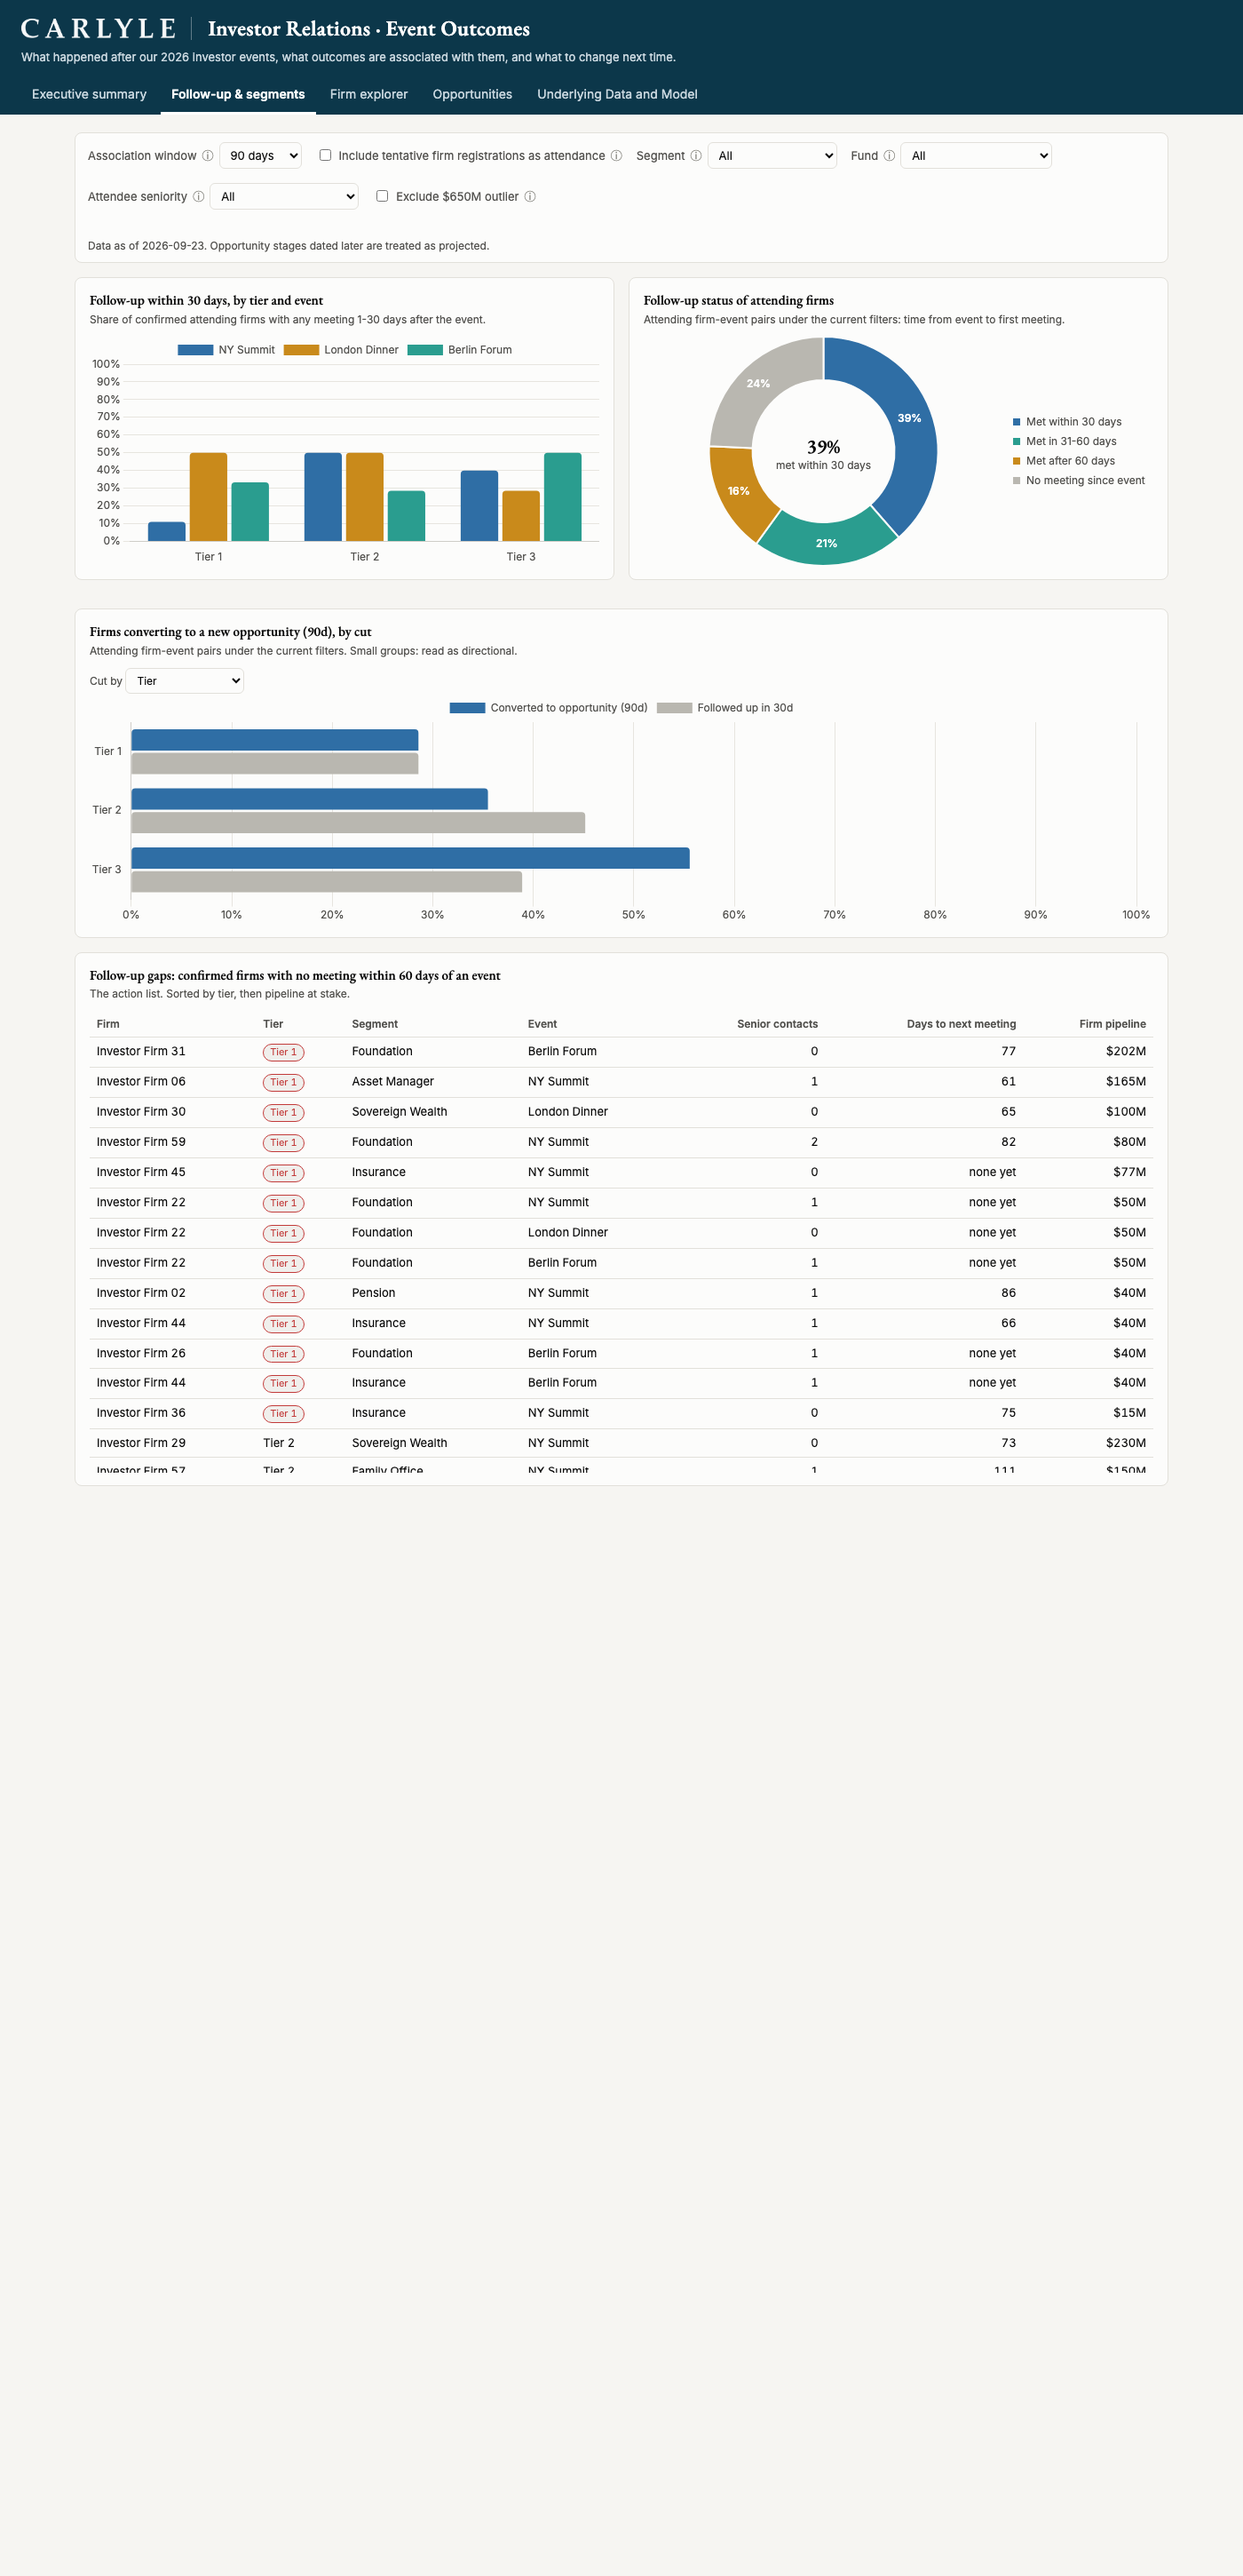
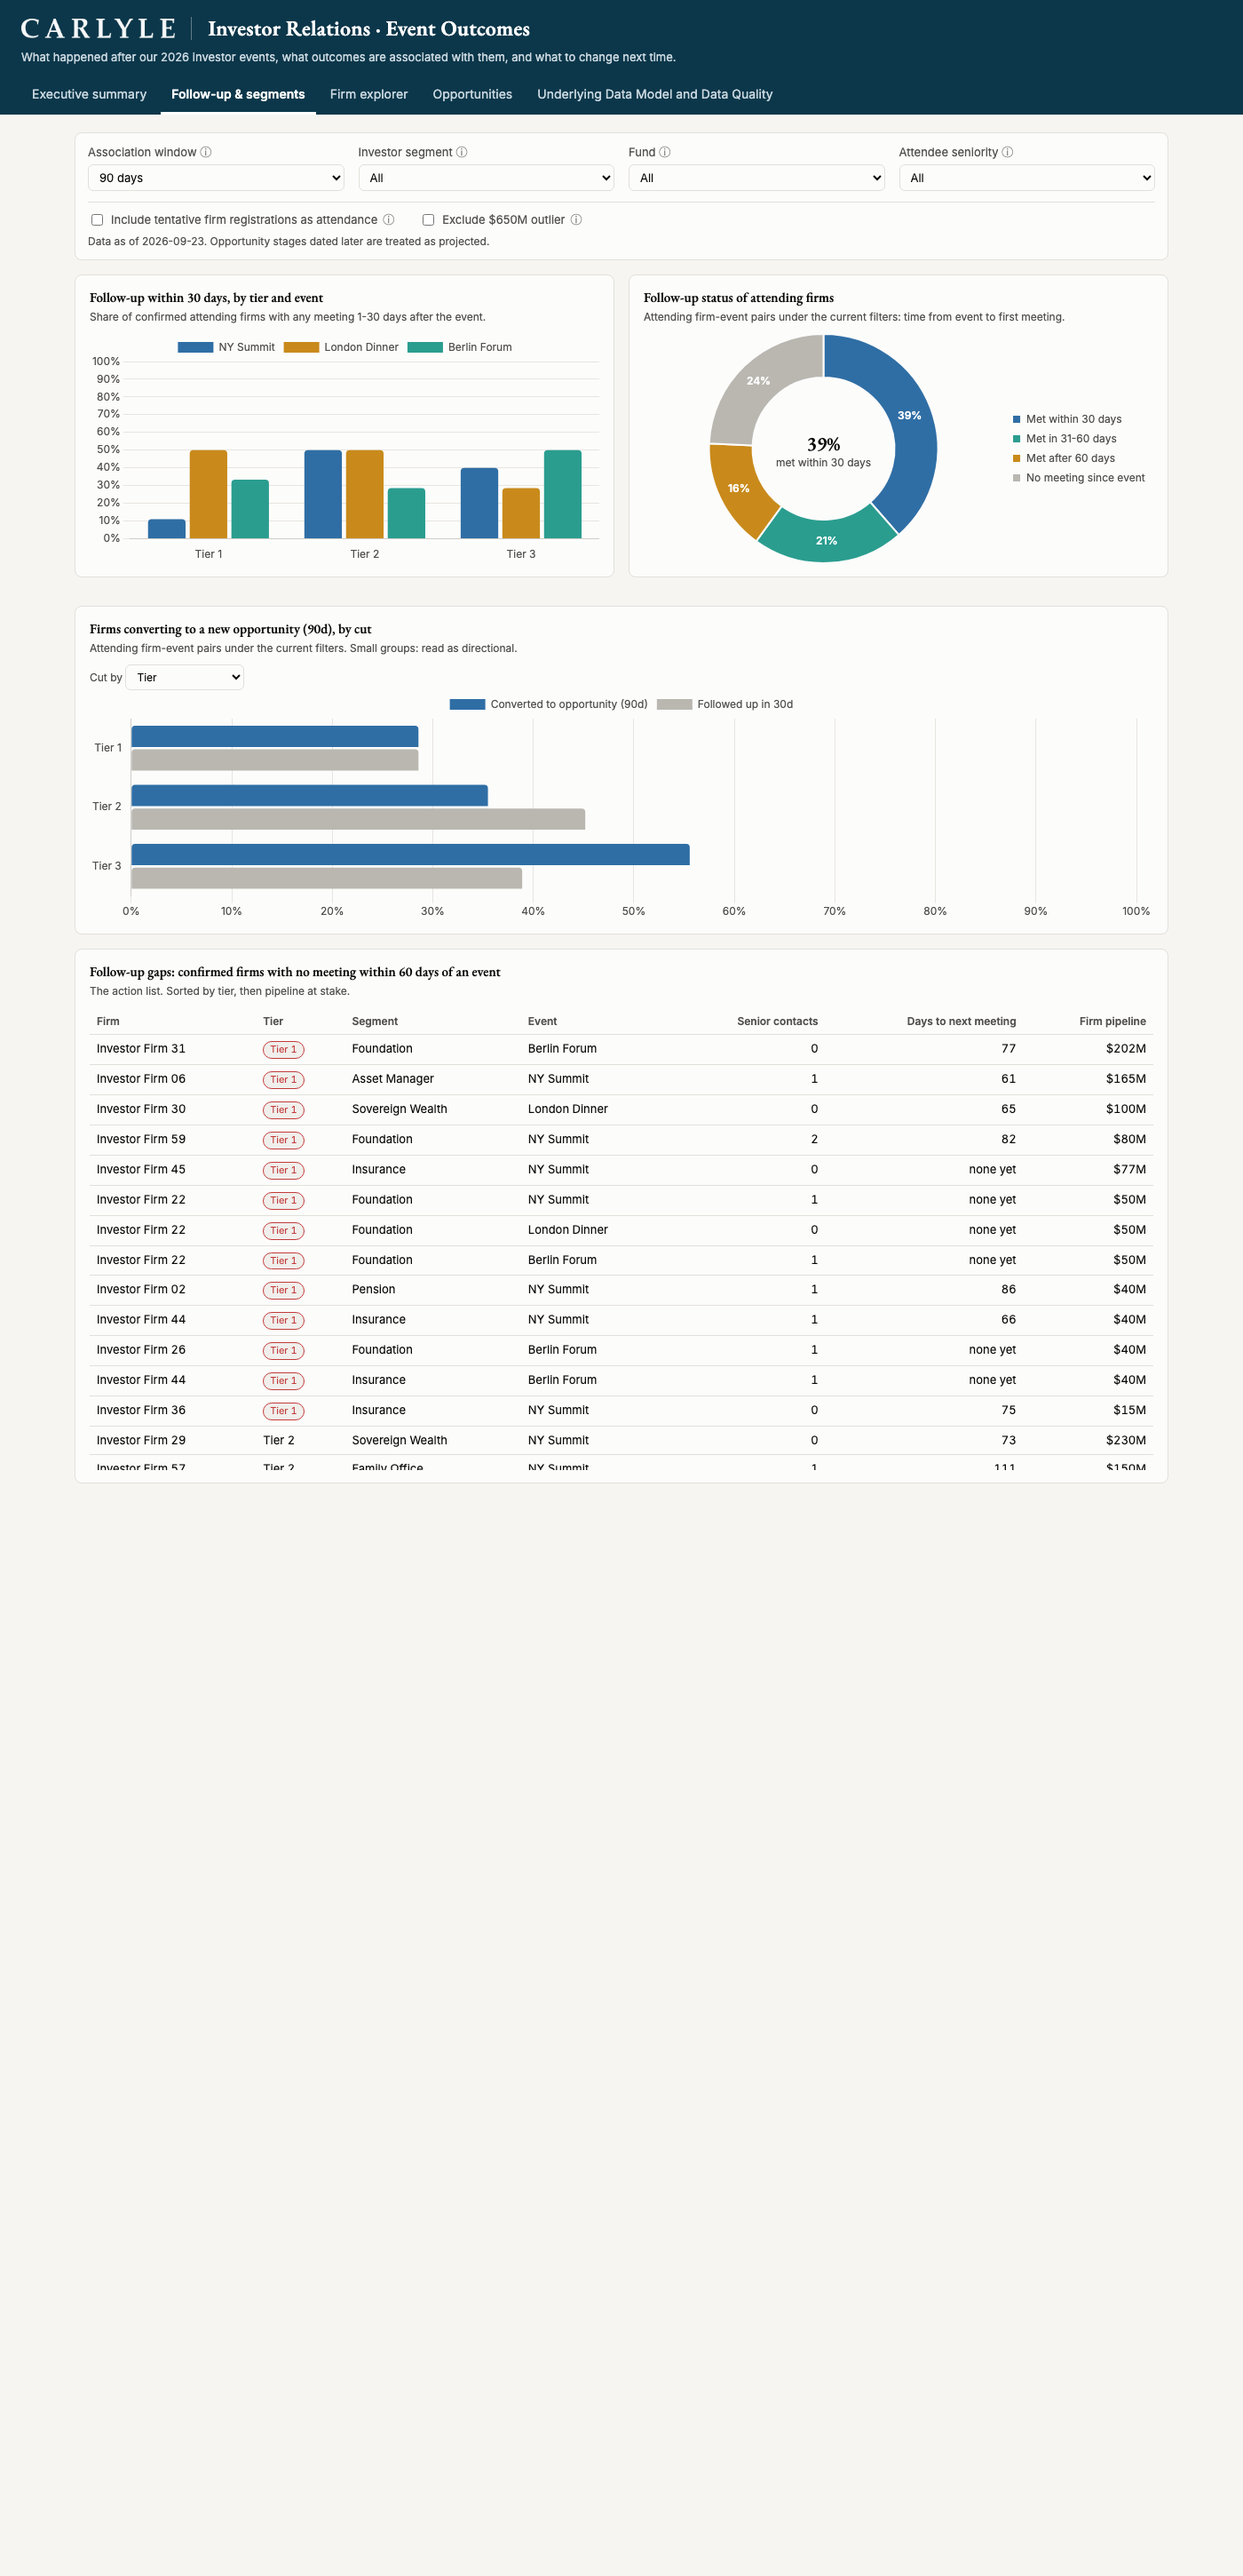
Align filter controls: dropdowns in one row, toggles in one row

diff --git a/docs/index.html b/docs/index.html
@@ -34,7 +34,14 @@ nav button:hover { color: #fff; }
 nav button.active { color: #fff; border-bottom-color: #fff; font-weight: 600; }
 .card h2, .insights h2 { font-family: 'EB Garamond', Georgia, serif; font-size: 19px; font-weight: 600; color: var(--text); }
 main { max-width: 1280px; margin: 0 auto; padding: 20px 24px 60px; }
-.controls { display: flex; flex-wrap: wrap; gap: 16px; align-items: center; background: var(--surface); border: 1px solid var(--border); border-radius: 8px; padding: 10px 14px; margin-bottom: 16px; }
+.controls { background: var(--surface); border: 1px solid var(--border); border-radius: 8px; padding: 12px 14px; margin-bottom: 16px; }
+.ctl-selects { display: grid; grid-template-columns: repeat(4, minmax(0, 1fr)); gap: 12px 16px; }
+.ctl-selects label.sel { flex-direction: column; align-items: stretch; gap: 4px; }
+.ctl-selects select { width: 100%; }
+.ctl-toggles { display: flex; flex-wrap: wrap; gap: 8px 28px; margin-top: 12px; padding-top: 10px; border-top: 1px solid var(--border); }
+#filterNote:not(:empty) { margin-top: 8px; }
+#asof { margin-top: 6px; }
+@media (max-width: 760px) { .ctl-selects { grid-template-columns: repeat(2, minmax(0, 1fr)); } }
 .sig-note { margin: 12px 0 0; padding-top: 6px; border-top: 1px solid var(--border); font-size: 10px; line-height: 1.35; color: var(--muted); }
 td .info, .info { color: var(--muted); cursor: help; font-size: 12px; }
 .controls .info { color: var(--muted); cursor: help; font-size: 13px; }
@@ -99,20 +106,24 @@ tr.sel { background: var(--surface-2); }
 </header>
 <main>
   <div class="controls" id="controls">
-    <label title="How many days after an event a new opportunity can be opened and still be linked to that event. The firm must have attended; if several events qualify, the most recent one gets credit. Longer windows link more pipeline but make the link to the event weaker.">Association window <span class="info">ⓘ</span>
+    <div class="ctl-selects">
+    <label class="sel" title="How many days after an event a new opportunity can be opened and still be linked to that event. The firm must have attended; if several events qualify, the most recent one gets credit. Longer windows link more pipeline but make the link to the event weaker."><span class="lbl">Association window <span class="info">ⓘ</span></span>
       <select id="win">
         <option value="30">30 days</option><option value="60">60 days</option>
         <option value="90" selected>90 days</option><option value="180">180 days</option>
       </select>
     </label>
-    <label title="Each registrant is Confirmed or Tentative. By default a firm counts as attending an event only if at least one of its contacts is Confirmed. Turn this on to also count the 9 firm-event registrations where every contact was Tentative. Off by default because the data has no check-in record, so tentative firms may not have attended."><input type="checkbox" id="tent"> Include tentative firm registrations as attendance <span class="info">ⓘ</span></label>
-    <label title="Keep only firms in this investor segment: attendees, the non-attendee comparison group, and their opportunities.">Segment <span class="info">ⓘ</span> <select id="gSeg"><option>All</option></select></label>
-    <label title="Keep only opportunities for this fund. Attendance, meetings and follow-up are not affected.">Fund <span class="info">ⓘ</span> <select id="gFund"><option>All</option></select></label>
-    <label title="Count attendance only where a CIO or Managing Director was registered (or only where none was). Firms dropped by this filter leave the comparison group too, rather than being counted as non-attendees.">Attendee seniority <span class="info">ⓘ</span>
+    <label class="sel" title="Keep only firms in this investor segment: attendees, the non-attendee comparison group, and their opportunities."><span class="lbl">Investor segment <span class="info">ⓘ</span></span><select id="gSeg"><option>All</option></select></label>
+    <label class="sel" title="Keep only opportunities for this fund. Attendance, meetings and follow-up are not affected."><span class="lbl">Fund <span class="info">ⓘ</span></span><select id="gFund"><option>All</option></select></label>
+    <label class="sel" title="Count attendance only where a CIO or Managing Director was registered (or only where none was). Firms dropped by this filter leave the comparison group too, rather than being counted as non-attendees."><span class="lbl">Attendee seniority <span class="info">ⓘ</span></span>
       <select id="gSen"><option value="All">All</option><option value="senior">CIO or MD registered</option><option value="non_senior">No CIO or MD</option></select></label>
+    </div>
+    <div class="ctl-toggles">
+    <label title="Each registrant is Confirmed or Tentative. By default a firm counts as attending an event only if at least one of its contacts is Confirmed. Turn this on to also count the 9 firm-event registrations where every contact was Tentative. Off by default because the data has no check-in record, so tentative firms may not have attended."><input type="checkbox" id="tent"> Include tentative firm registrations as attendance <span class="info">ⓘ</span></label>
     <label title="Removes O0017, a $650M commitment (next largest ticket is $150M). The firm attended no event, so event metrics do not change; totals, the pipeline donut and opportunity charts do."><input type="checkbox" id="gOut"> Exclude $650M outlier <span class="info">ⓘ</span></label>
-    <div class="note" id="filterNote" style="flex-basis:100%"></div>
-    <span class="note" id="asof"></span>
+    </div>
+    <div class="note" id="filterNote"></div>
+    <div class="note" id="asof"></div>
   </div>
 
   <!-- OVERVIEW -->

diff --git a/app/streamlit_app.py b/app/streamlit_app.py
@@ -158,22 +158,21 @@ def bar_fig(x, series, yfmt=None, horizontal=False, height=300):
 
 brand_css()
 
-c1, c2 = st.columns([1, 3])
-window = c1.selectbox("Association window (days)", [30, 60, 90, 180], index=2,
-                      help="How many days after an event a new opportunity can be opened and still be linked to that event. The firm must have attended; if several events qualify, the most recent one gets credit. Longer windows link more pipeline but make the link to the event weaker.")
-tent = c2.toggle("Include tentative firm registrations as attendance", value=False,
-                 help="Each registrant is Confirmed or Tentative. By default a firm counts as attending an event only if at least one of its contacts is Confirmed. Turn this on to also count the 9 firm-event registrations where every contact was Tentative. Off by default because the data has no check-in record, so tentative firms may not have attended.")
-c = st.columns([1, 1, 1, 1.3])
-segment = c[0].selectbox("Investor segment", ["All"] + sorted(firms.segment.unique()),
-                         help="Keep only firms in this investor segment: attendees, the non-attendee comparison group, and their opportunities.")
-fund = c[1].selectbox("Fund", ["All"] + sorted(opps.fund_name.unique()),
-                      help="Keep only opportunities for this fund. Attendance, meetings and follow-up are not affected.")
-seniority = c[2].selectbox("Attendee seniority", ["All", "senior", "non_senior"],
-                           format_func={"All": "All", "senior": "CIO or MD registered", "non_senior": "No CIO or MD"}.get,
-                           help="Count attendance only where a CIO or Managing Director was registered (or only where none was). Firms dropped by this filter leave the comparison group too, rather than being counted as non-attendees.")
-c[3].markdown("<div style='height:30px'></div>", unsafe_allow_html=True)
-excl = c[3].toggle("Exclude $650M outlier",
-                   help="Removes O0017, a $650M commitment (next largest ticket is $150M). The firm attended no event, so event metrics do not change; totals, the pipeline donut and opportunity charts do.")
+row = st.columns(4)
+window = row[0].selectbox("Association window (days)", [30, 60, 90, 180], index=2,
+                          help="How many days after an event a new opportunity can be opened and still be linked to that event. The firm must have attended; if several events qualify, the most recent one gets credit. Longer windows link more pipeline but make the link to the event weaker.")
+segment = row[1].selectbox("Investor segment", ["All"] + sorted(firms.segment.unique()),
+                           help="Keep only firms in this investor segment: attendees, the non-attendee comparison group, and their opportunities.")
+fund = row[2].selectbox("Fund", ["All"] + sorted(opps.fund_name.unique()),
+                        help="Keep only opportunities for this fund. Attendance, meetings and follow-up are not affected.")
+seniority = row[3].selectbox("Attendee seniority", ["All", "senior", "non_senior"],
+                             format_func={"All": "All", "senior": "CIO or MD registered", "non_senior": "No CIO or MD"}.get,
+                             help="Count attendance only where a CIO or Managing Director was registered (or only where none was). Firms dropped by this filter leave the comparison group too, rather than being counted as non-attendees.")
+row = st.columns([2.2, 1.3, 2.5])
+tent = row[0].toggle("Include tentative firm registrations as attendance", value=False,
+                     help="Each registrant is Confirmed or Tentative. By default a firm counts as attending an event only if at least one of its contacts is Confirmed. Turn this on to also count the 9 firm-event registrations where every contact was Tentative. Off by default because the data has no check-in record, so tentative firms may not have attended.")
+excl = row[1].toggle("Exclude $650M outlier",
+                     help="Removes O0017, a $650M commitment (next largest ticket is $150M). The firm attended no event, so event metrics do not change; totals, the pipeline donut and opportunity charts do.")
 F = Filters(window=window, tentative=tent, segment=segment, fund=fund, seniority=seniority, exclude_outlier=excl)
 P = prepare(D)
 
